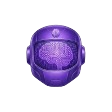
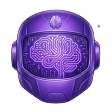
Changes

diff --git a/src/pages/EspecialistaDeEstudos.tsx b/src/pages/EspecialistaDeEstudos.tsx
@@ -414,8 +414,8 @@ const EspecialistaDeEstudos = () => {
                   <div className="h-full min-h-[60vh] flex flex-col items-center justify-center text-center p-6">
                     {/* Hero icon with enhanced glow */}
                     <div className="relative mb-8 animate-fade-in">
-                      <div className="w-28 h-28 rounded-3xl flex items-center justify-center">
-                        <img src={especialistaAvatar} alt="Especialista de Estudos" className="w-24 h-24 object-contain" />
+                      <div className="w-32 h-32 rounded-3xl flex items-center justify-center">
+                        <img src={especialistaAvatar} alt="Especialista de Estudos" className="w-28 h-28 object-contain" />
                       </div>
                       <div className="absolute inset-0 rounded-3xl bg-primary/10 blur-2xl animate-pulse" />
                       <div className="absolute -top-3 -right-3 w-10 h-10 rounded-xl bg-gradient-to-br from-amber-500 to-orange-500 flex items-center justify-center shadow-lg animate-bounce">
